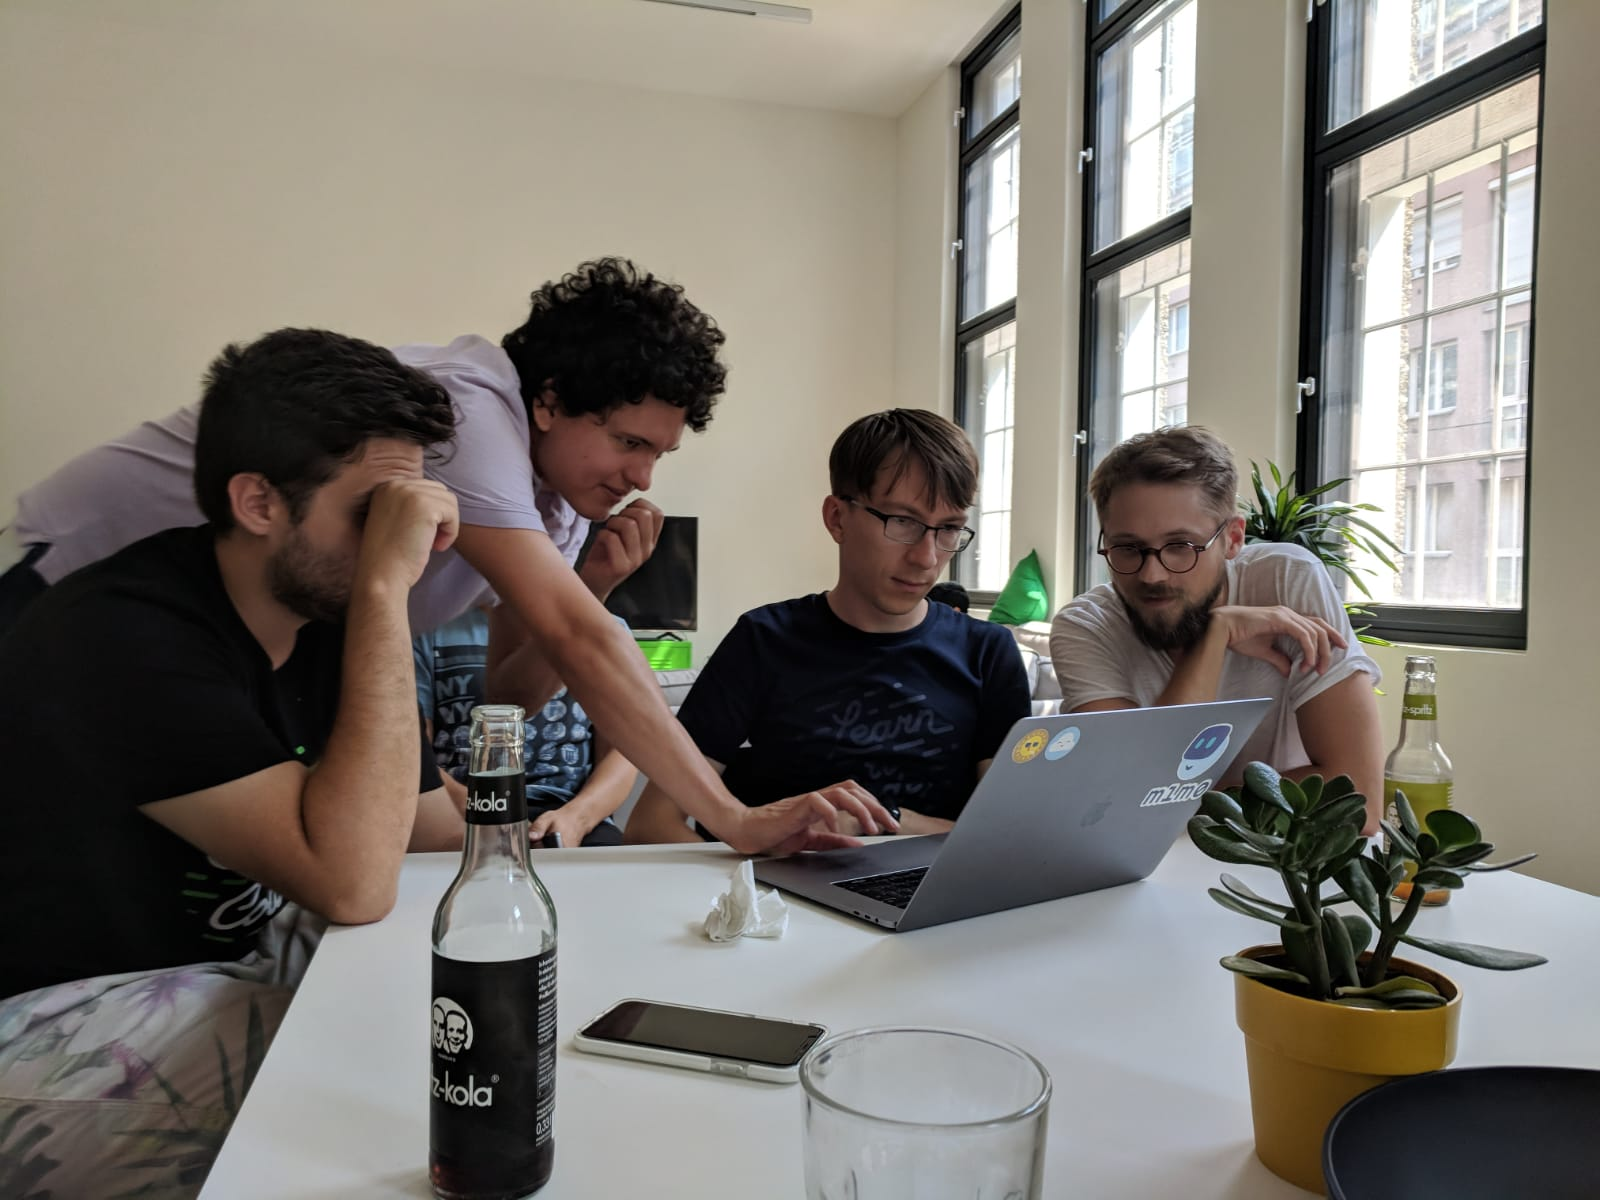
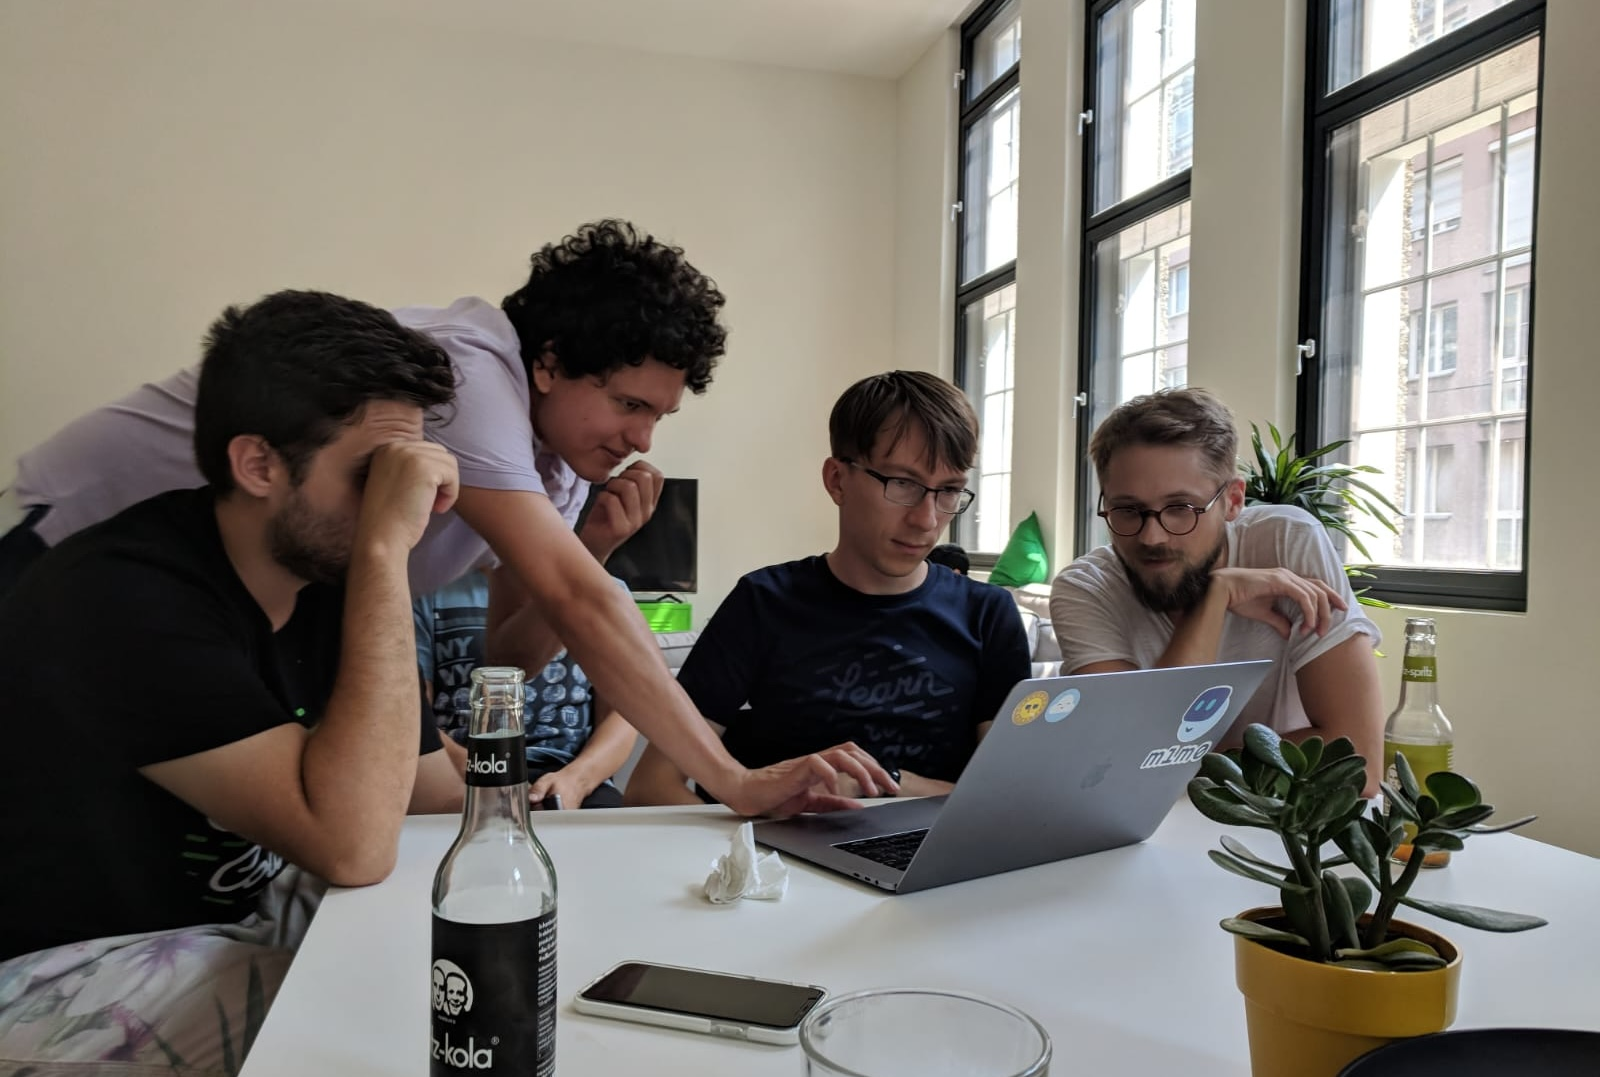
Adjust heading sizes for smaller screens

diff --git a/src/styles/tokens.css b/src/styles/tokens.css
@@ -28,9 +28,9 @@
   --text-base: 1rem;
   --text-lg: 1.25rem;
   --text-xl: 1.5rem;
-  --text-2xl: 2rem;
-  --text-3xl: 3rem;
-  --text-4xl: 4rem;
+  --text-2xl: clamp(1.75rem, 1.5rem + 1vw, 2rem);
+  --text-3xl: clamp(2rem, 1.5rem + 2vw, 3rem);
+  --text-4xl: clamp(2.5rem, 1.75rem + 3vw, 4rem);
 
   /* Line height */
   --leading-body: 1.5;
